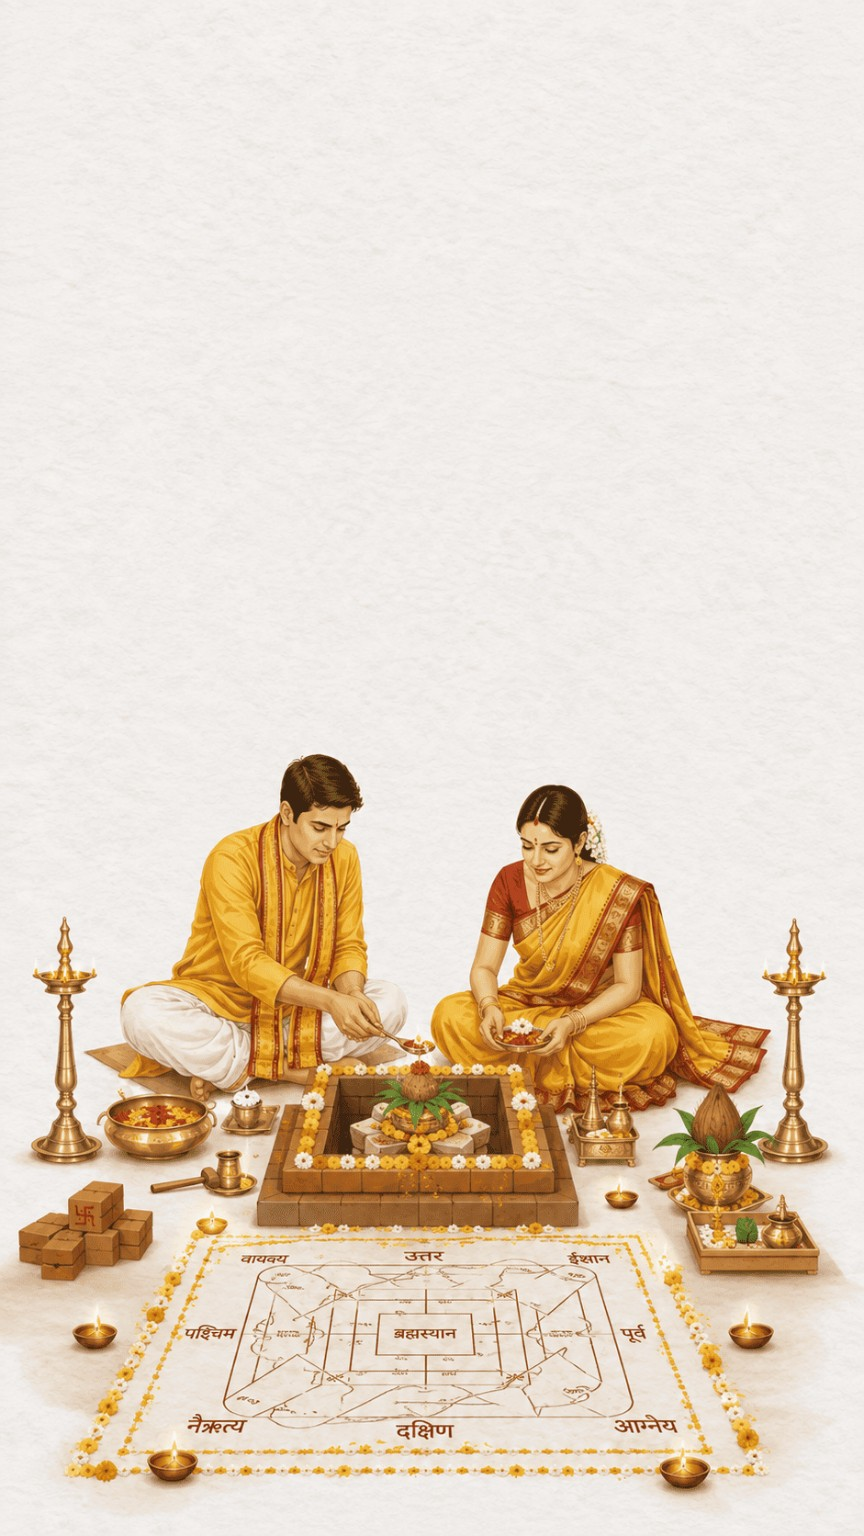
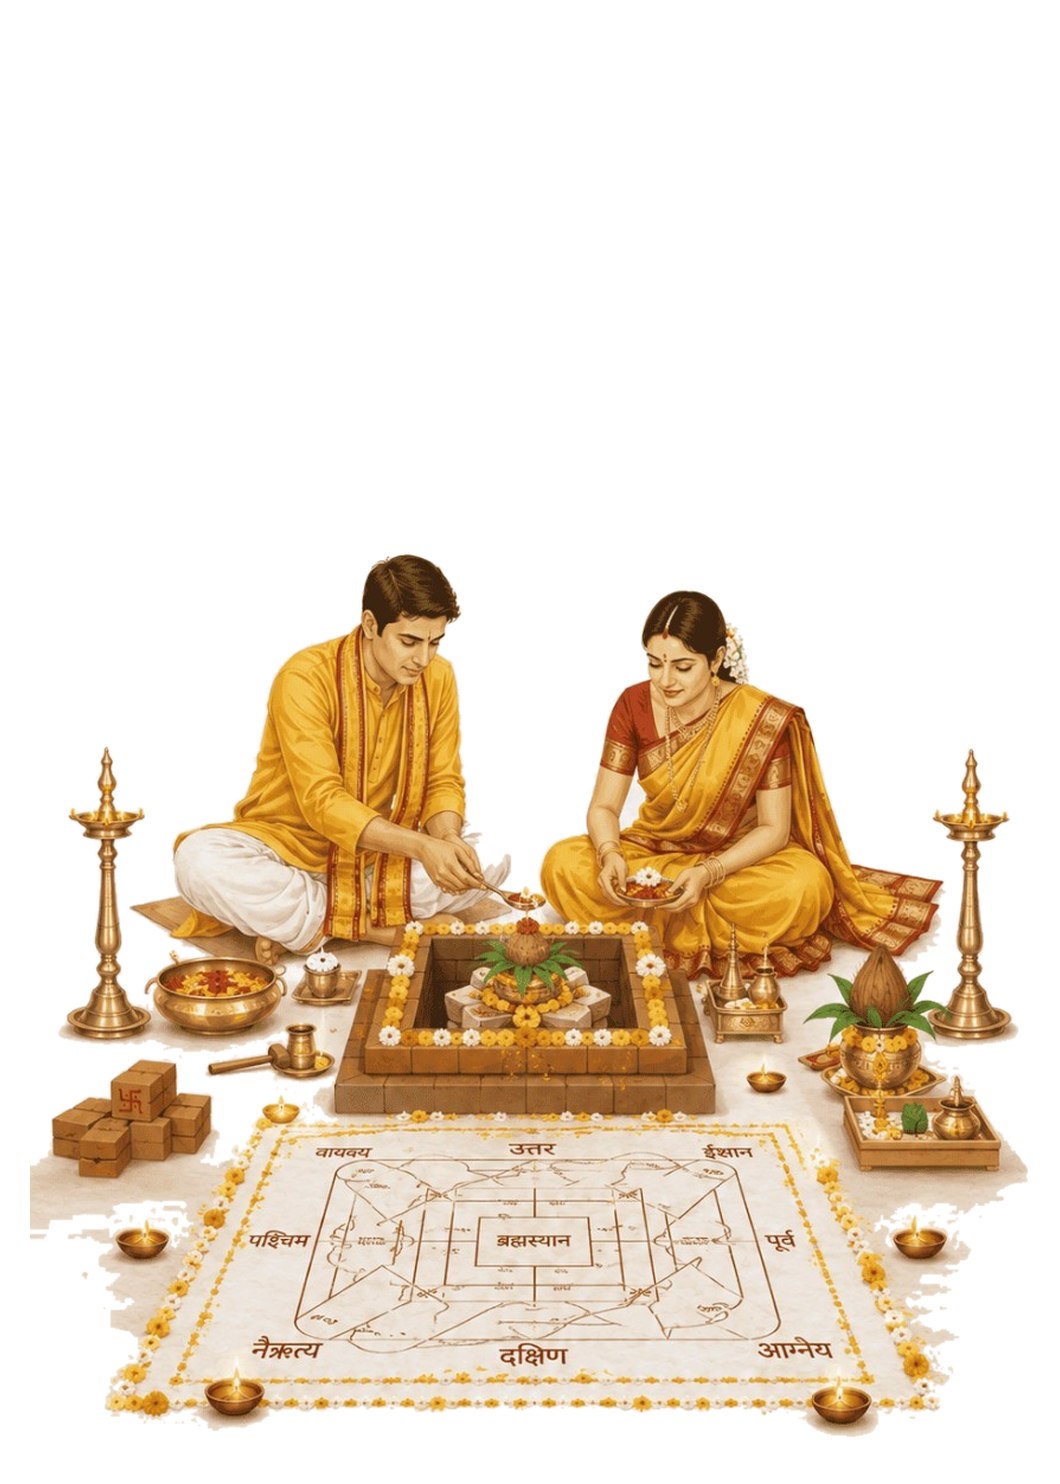
Gruhapravesam Invitation

diff --git a/index.html b/index.html
@@ -99,9 +99,9 @@
  <div class="gallery story-gallery"><figure class="photo main-photo"><picture><source media="(max-width:760px)" srcset="home-portrait.png"><img src="our-new-home.jpg" alt="Warmly lit entrance to the Chinnam Family’s new home" loading="lazy"></picture><figcaption class="photo-caption"><strong>Our New Home</strong><small>Levonor Northeast Apartments</small></figcaption></figure>
   
  <!-- <figure class="photo story-photo"><img src="our-new-home.jpg" alt="Traditional puja offerings and blessings" loading="lazy"><figcaption class="photo-caption"><strong>Family Blessings</strong><small>Prayers for peace and prosperity</small></figcaption></figure> -->
- <figure class="photo main-photo"><picture><source media="(max-width:760px)" srcset="Glimpse2.png.png"><img src="Glimpse1.png" alt="A decorated home shrine prepared for puja" loading="lazy"><figcaption class="photo-caption"><strong></strong><small></small></figcaption></figure>
+ <figure class="photo main-photo"><picture><source media="(max-width:760px)" srcset="Glimpse.png"><img src="Glimpse1.png" alt="" loading="lazy"><figcaption class="photo-caption"><strong></strong><small></small></figcaption></figure>
  <!-- <figure class="photo story-photo"><picture><source media="(max-width:760px)" srcset="home-portrait.png"><img src="havan-ceremony.png" alt="Traditional havan ceremony setup" loading="lazy"><figcaption class="photo-caption"><strong>Gruhapravesam Puja</strong><small>Tradition, devotion and gratitude</small></figcaption></figure> -->
- <figure class="photo main-photo"><picture><source media="(max-width:760px)" srcset="GGlimpse2.png.png"><img src="Glimpse2.png" alt="A couple entering a home decorated for Gruhapravesam" loading="lazy"><figcaption class="photo-caption"><strong></strong><small></small></figcaption></figure></div></div></section>
+ <figure class="photo main-photo"><picture><source media="(max-width:760px)" srcset="Glimpse2.png"><img src="Glimpse2.png" alt="" loading="lazy"><figcaption class="photo-caption"><strong></strong><small></small></figcaption></figure></div></div></section>
 <section class="section paper" id="venue"><div class="wrap"><div class="section-head"><div class="kicker">Come celebrate with us</div><h2>Find Our Home</h2><p>We look forward to welcoming you.</p></div><div class="venue-grid"><article class="venue-card glass"><div class="symbol"><img class="detail-art" src="venue-icon.png" alt="" loading="lazy"></div><div class="kicker">Our venue</div><h3>Levonor Northeast Apartments</h3><p>Tejaswi Nagar Colony, Attapur<br>Hyderabad, Telangana</p><a class="btn" href="https://www.google.com/maps/search/?api=1&amp;query=Levonor+Northeast+Apartments%2C+Tejaswi+Nagar+Colony%2C+Attapur%2C+Hyderabad" target="_blank" rel="noopener noreferrer">Open Google Maps ↗</a></article>
  <article class="venue-card glass"><div class="symbol">♡</div><div class="kicker">Your blessings mean a lot</div><h3>Please let us know</h3><p>We hope you can join us, or simply send your wishes for our new beginning.</p><a class="btn ghost" href="#rsvp">Respond to Invitation ↓</a></article></div></div></section>
 <section class="section" id="rsvp"><div class="wrap"><div class="section-head"><div class="kicker">Your presence is our blessing</div><h2>Send your wishes</h2><p>Let us know you’re coming, or share a message with the family.</p></div><div class="rsvp glass"><p>Fill in your name and guest count to prepare a WhatsApp reply.</p><div class="rsvp-fields"><input id="guestName" type="text" maxlength="80" autocomplete="name" placeholder="Your name" aria-label="Your name"><input id="guestCount" type="number" min="1" max="30" value="2" inputmode="numeric" aria-label="Number of guests" title="Number of guests"></div><button class="btn" id="whatsappBtn" type="button">☏ &nbsp; Respond on WhatsApp ↗</button><p>This opens WhatsApp with a ready-to-send message; it does not store your response on this website.</p></div></div></section>
